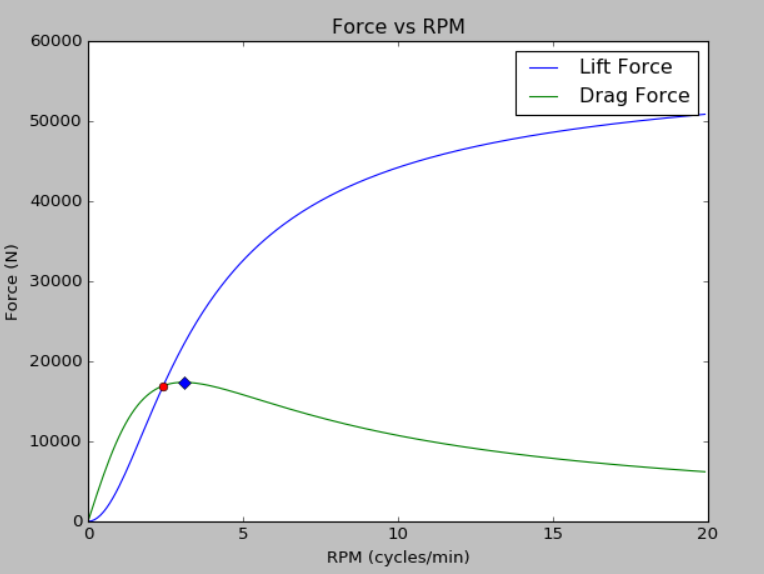
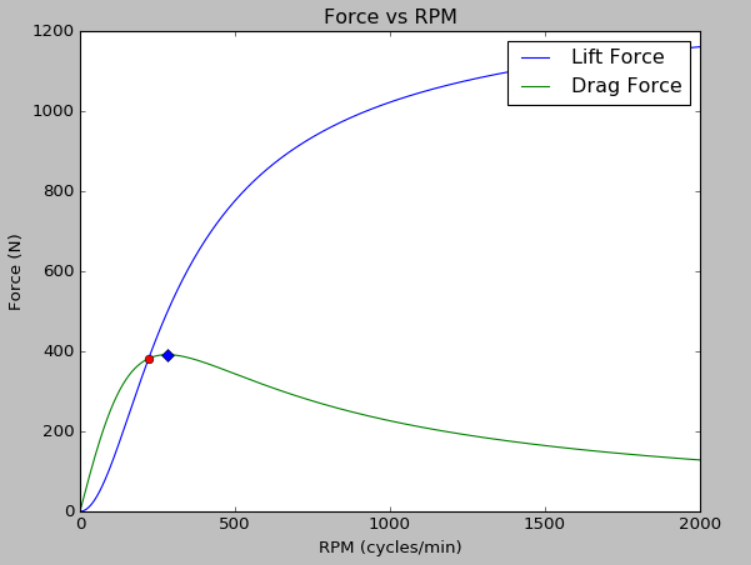
Updated graphs

diff --git a/main.py b/main.py
@@ -18,10 +18,9 @@ m = V * M                   # magnetic vertical dipole moment (A-m^2)
 w = 2 * rho / (mu_0 * h)    # velocity of magnetic propagation through beam (m/s)
 # WHEEL
 r = ((side_len + spacing) * num_magnets) / (2 * np.pi)  # radius of wheel
-print (r)
 
 # CONVERSIONS
-rpm_to_angular_vel = lambda rpm: 30 * rpm / np.pi
+rpm_to_angular_vel = lambda rpm: np.pi * rpm / 30
 tangential_vel = lambda angular_vel: r * angular_vel    # tangential velocity of wheel given
 rpm_to_tan_vel = lambda rpm: tangential_vel(rpm_to_angular_vel(rpm))
 
@@ -36,7 +35,7 @@ F_drag_rpm = lambda rpm: (w / rpm_to_tan_vel(rpm)) * F_lift_rpm(rpm)
 
 def Newton(f, x0, tolerance, derivative=False):
     if derivative:
-        h = lambda x: (f(x + tolerance) - f(x)) / tolerance
+        h = lambda x: abs((f(x + tolerance) - f(x)) / tolerance)
     else:
         h = f
     dh = lambda x: (h(x + tolerance) - h(x)) / tolerance
@@ -49,31 +48,37 @@ def Newton(f, x0, tolerance, derivative=False):
 
 def getPOI(f, g):
     tolerance = 0.0001
-    x0 = 2
-    return Newton(lambda x: f(x) - g(x), x0, tolerance)
+    x0 = 250
+    return Newton(lambda x: abs(f(x) - g(x)), x0, tolerance)
 
 
 def getMax(f):
-    tolerance = 0.0001
-    x0 = 3
+    tolerance = 0.01
+    x0 = 270
     return Newton(f, x0, tolerance, True)
 
 
 # CONTROLS
-display_points = False  # display POI and max/min
-F_var = "v"             # v or rpm
+display_points = True       # display POI and max/min
+display_labels = False      # display labels for points
+ZOOM = False                # zoom in to key points
+F_var = "rpm"               # v or rpm
 START = 0.001
-END = 25
+END = 2000                  # RPM (default)
+if ZOOM:
+    END /= 16
+if F_var == "v":
+    END = rpm_to_tan_vel(END)
 STEP = 0.1
 
 # Compute the x and y coordinates
 x = np.arange(START, END, STEP)
 if F_var == "v":
-    F_drag = F_lift_v
-    F_lift = F_drag_v
+    F_lift = F_lift_v
+    F_drag = F_drag_v
 else:
-    F_drag = F_lift_rpm
-    F_lift = F_drag_rpm
+    F_lift = F_lift_rpm
+    F_drag = F_drag_rpm
 F_lift_plot = F_lift(x)
 F_drag_plot = F_drag(x)
 if display_points:
@@ -92,7 +97,8 @@ plt.legend(['Lift Force', 'Drag Force'])
 if display_points:
     plt.plot(POI_x, POI_y, 'ro')
     plt.plot(max_drag_x, max_drag_y, 'bD')
-    plt.annotate('POI = (' + str('{0:.2f}'.format(POI_x)) + ', ' + str('{0:.2f}'.format(POI_y)) + ')', xy=(2, 1), xytext=(0.7, POI_y))
-    plt.annotate('Max F_drag = (' + str('{0:.2f}'.format(max_drag_x)) + ', ' + str('{0:.2f}'.format(max_drag_y)) + ')',
-                 xy=(2, 1), xytext=(max_drag_x - 0.2, max_drag_y + 1000))
+    if display_labels:
+        plt.annotate('POI = (' + str('{0:.2f}'.format(POI_x)) + ', ' + str('{0:.2f}'.format(POI_y)) + ')', xy=(2, 1), xytext=(POI_x - 150, POI_y))
+        plt.annotate('Max F_drag = (' + str('{0:.2f}'.format(max_drag_x)) + ', ' + str('{0:.2f}'.format(max_drag_y)) + ')',
+                     xy=(2, 1), xytext=(max_drag_x - 30, max_drag_y + 20))
 plt.show()
